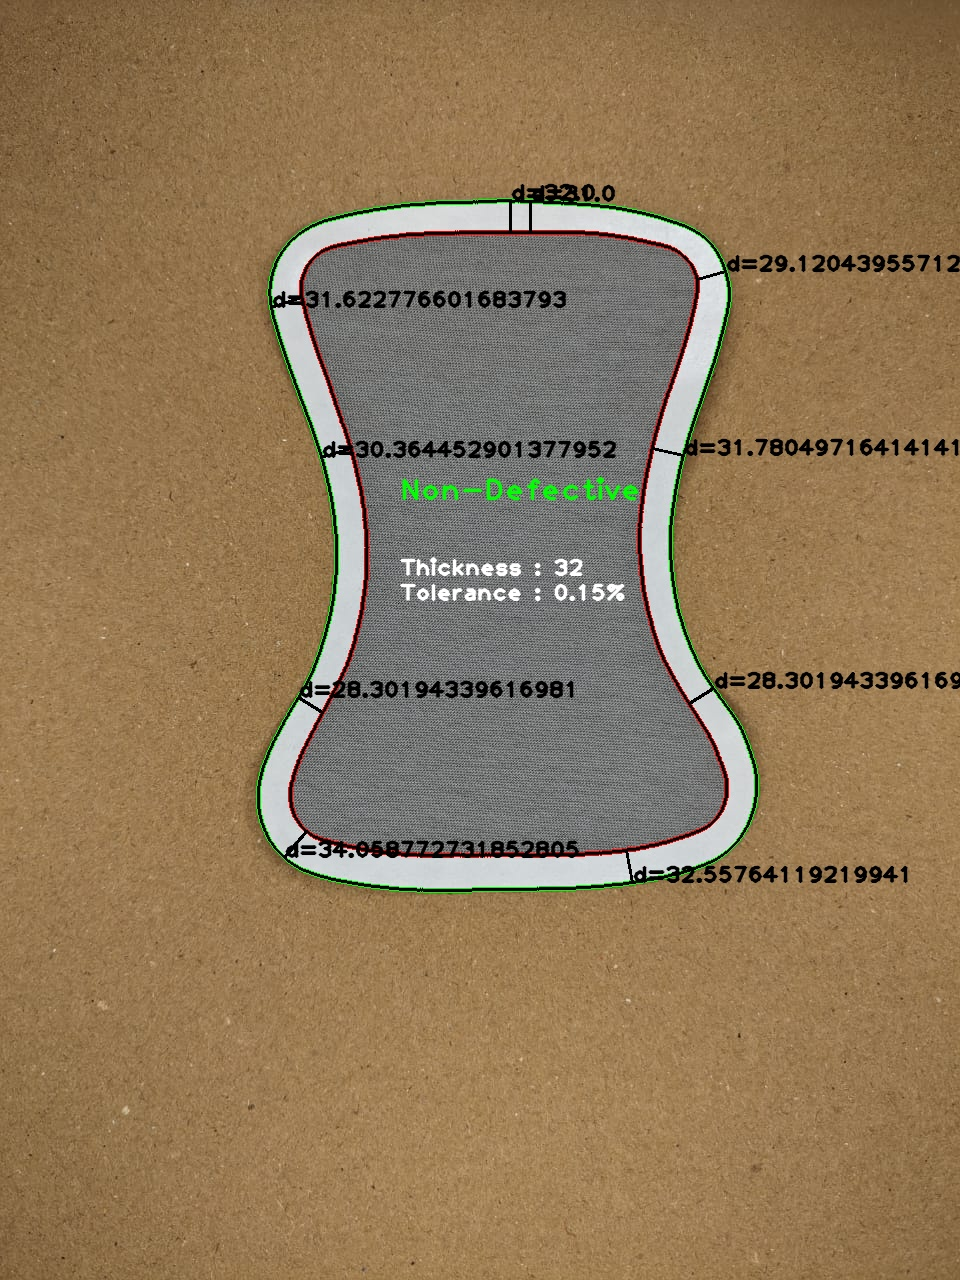
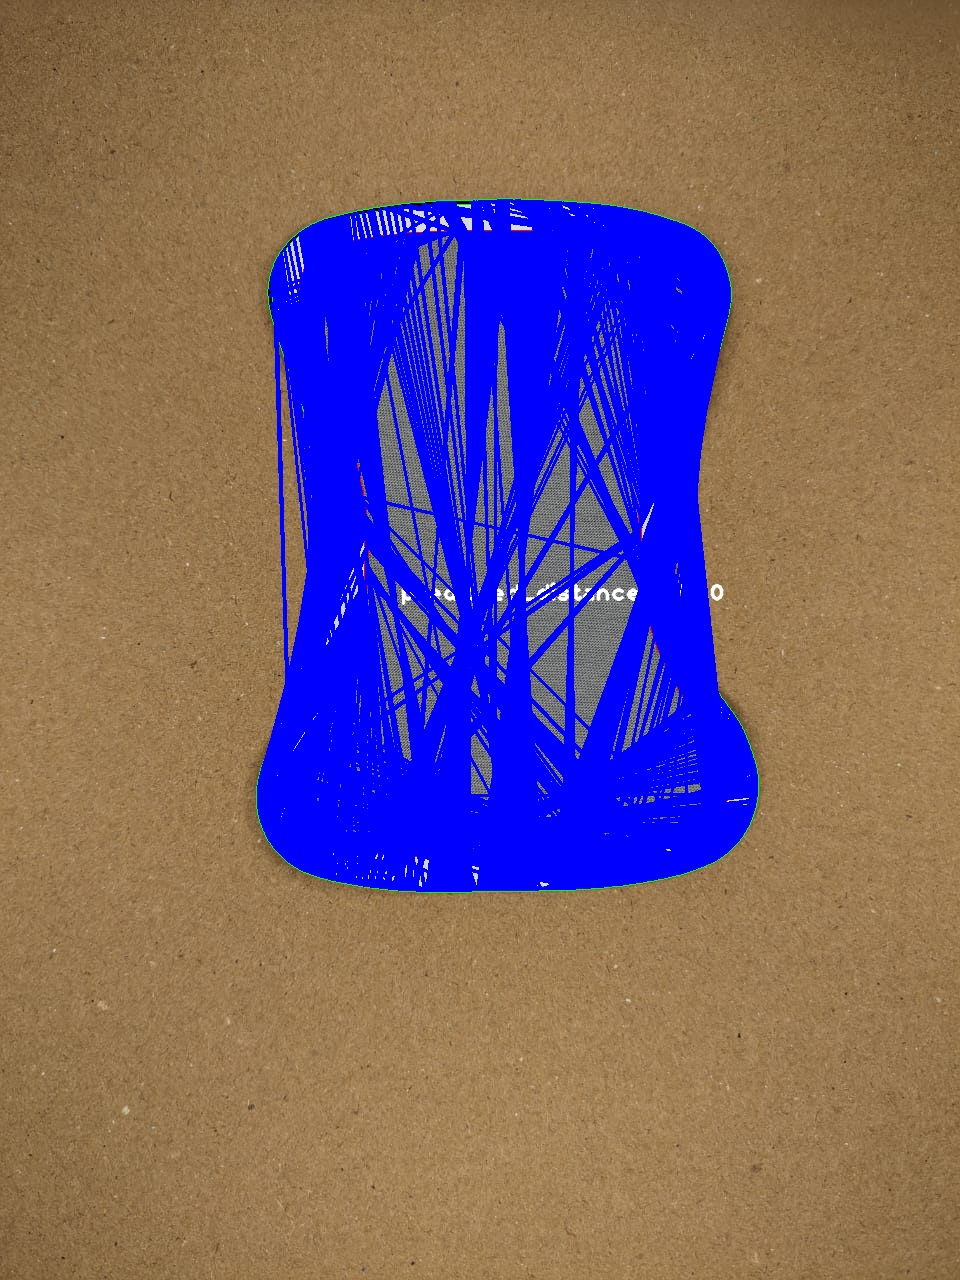
test

Changed region(s): [[0.25, 0.125, 1.0, 0.7188]]

diff --git a/fillCoordinates.py b/fillCoordinates.py
@@ -113,32 +113,46 @@ def measure_distance(longest_contour,second_longest_contour,frame_contours):
     tolerance=0.15
     thickness=32
     defective = False
-    for ref_point in range(0, int(len(second_longest_contour)/2), 100):
-        min_dist=np.linalg.norm(longest_contour[ref_point][0] - second_longest_contour[ref_point][0])
-        x_outer,y_outer = longest_contour[ref_point][0]
-        x_inner,y_inner = second_longest_contour[ref_point][0]
-        for coordinates in second_longest_contour:
-            dist = np.linalg.norm(longest_contour[ref_point][0] - coordinates[0])
-            if dist<min_dist:
-                min_dist=dist
-                x_inner,y_inner = coordinates[0]
-        #print(min_dist)
-        #print(str(x_inner)+","+str(y_inner))
-        #print(str(x_outer)+","+str(y_outer))
-        if ((min_dist>thickness*(1+tolerance)) or (min_dist<thickness*(1-tolerance)) ) :
-            defective = True
-            color=(0,0,255)
-        else:
-            color=(0,0,0)
-        cv.line(frame_contours,(x_outer,y_outer),(x_inner,y_inner),color,2)
-        cv.putText(frame_contours,("d="+str(min_dist)) , (x_outer,y_outer), cv.FONT_HERSHEY_PLAIN, 1.5 , color, 2, cv.LINE_AA)
-        
-    if(defective):
-        cv.putText(frame_contours,("Defective") , (400,500), cv.FONT_HERSHEY_PLAIN, 2 , (0, 0, 255), 2, cv.LINE_AA)
-        cv.putText(frame_contours,("Balance Out") , (400,550), cv.FONT_HERSHEY_PLAIN, 2 , (0, 0, 255), 2, cv.LINE_AA)
-    else:
-        cv.putText(frame_contours,("Non-Defective") , (400,500), cv.FONT_HERSHEY_PLAIN, 2 , (0, 255, 0), 2, cv.LINE_AA)
+    coord_index = 0
+    ref_index = 0
+    error_factor = 0.5
     
-    cv.putText(frame_contours,("Thickness : "+ str(thickness)) , (400,575), cv.FONT_HERSHEY_PLAIN, 1.5 , (255, 255, 255), 2, cv.LINE_AA)
-    cv.putText(frame_contours,("Tolerance : "+str(tolerance)+"%") , (400,600), cv.FONT_HERSHEY_PLAIN, 1.5 , (255, 255, 255), 2, cv.LINE_AA)
+    #set the initial minimum distance as the distance between first two points in the edges
+    min_dist=np.linalg.norm(longest_contour[0][0] - second_longest_contour[0][0])
+
+    #searching for the shortest distance and the point for the first point of outer edge
+    for outer_coordinates in longest_contour:
+        #looping through all points of outer edge to find the minimum distance for thr first point of the inner edge
+        dist = np.linalg.norm(second_longest_contour[0][0] - outer_coordinates[0])
+        if dist<min_dist:
+            min_dist=dist
+            #this is the index of the starting coordinates for the outer edge
+            ref_index = coord_index
+        coord_index=coord_index+1
+    #This is the predicted minimum distance for reference
+    predicted_distance = min_dist
+    
+    cv.putText(frame_contours,("predicted_distance : "+str(predicted_distance)) , (400,600), cv.FONT_HERSHEY_PLAIN, 1.5 , (255, 255, 255), 2, cv.LINE_AA)
+    
+    loop_index=0
+    #Find nearest points on outer edge for each inner edge point
+    distance = 0.0
+
+    # Iterate through the contour points
+    #print(len(longest_contour))
+    #print(len(second_longest_contour))       
+    #print(longest_contour[len(longest_contour)-1][0])
+    
+    
+    for inner_coordinates in second_longest_contour:
+        test_index=loop_index+ref_index
+        if(test_index>(len(longest_contour)-1)):
+            test_index = test_index - (len(longest_contour))
+
+        min_dist= np.linalg.norm(inner_coordinates[0]-longest_contour[test_index][0])
+        print(str(inner_coordinates[0])+str(longest_contour[test_index][0])+str(min_dist))        
+        cv.line(frame_contours,(inner_coordinates[0]),(longest_contour[test_index][0]),(255,0,0),2)
+        loop_index=loop_index+1
+    print("Starting point : "+str(ref_index) +" : "+ str(longest_contour[ref_index][0]))
+
     return

diff --git a/edgeDetect .py b/edgeDetect .py
@@ -73,7 +73,7 @@ while True:
         for coordinates in second_longest_contour:
             x, y = coordinates[0]  # Extract x and y coordinates from the point
             cv.circle(frame_contours, (x, y), 1, (0, 0, 0), -1)
-
+        
          
 
     if second_longest_contour is not None and longest_contour is not None:
